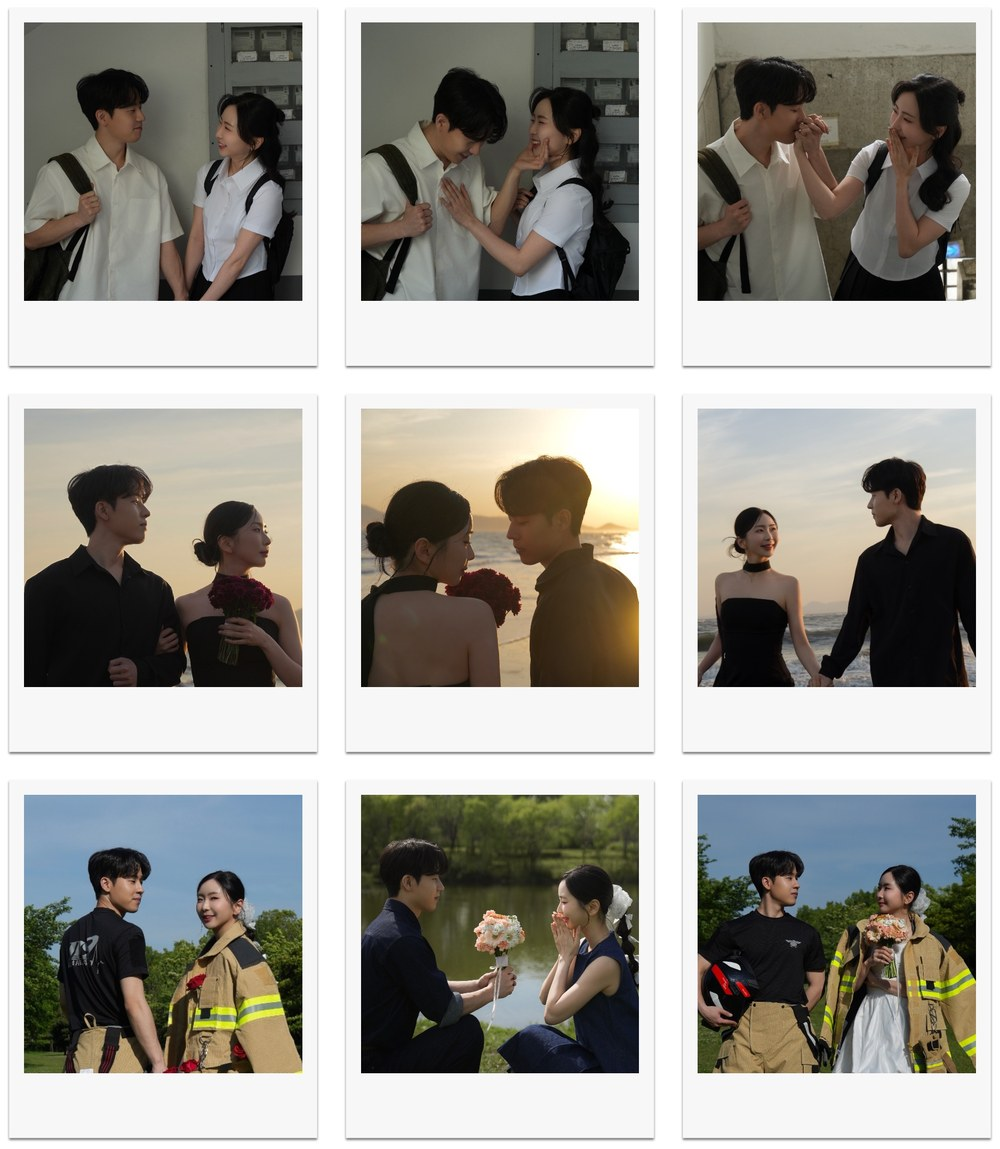
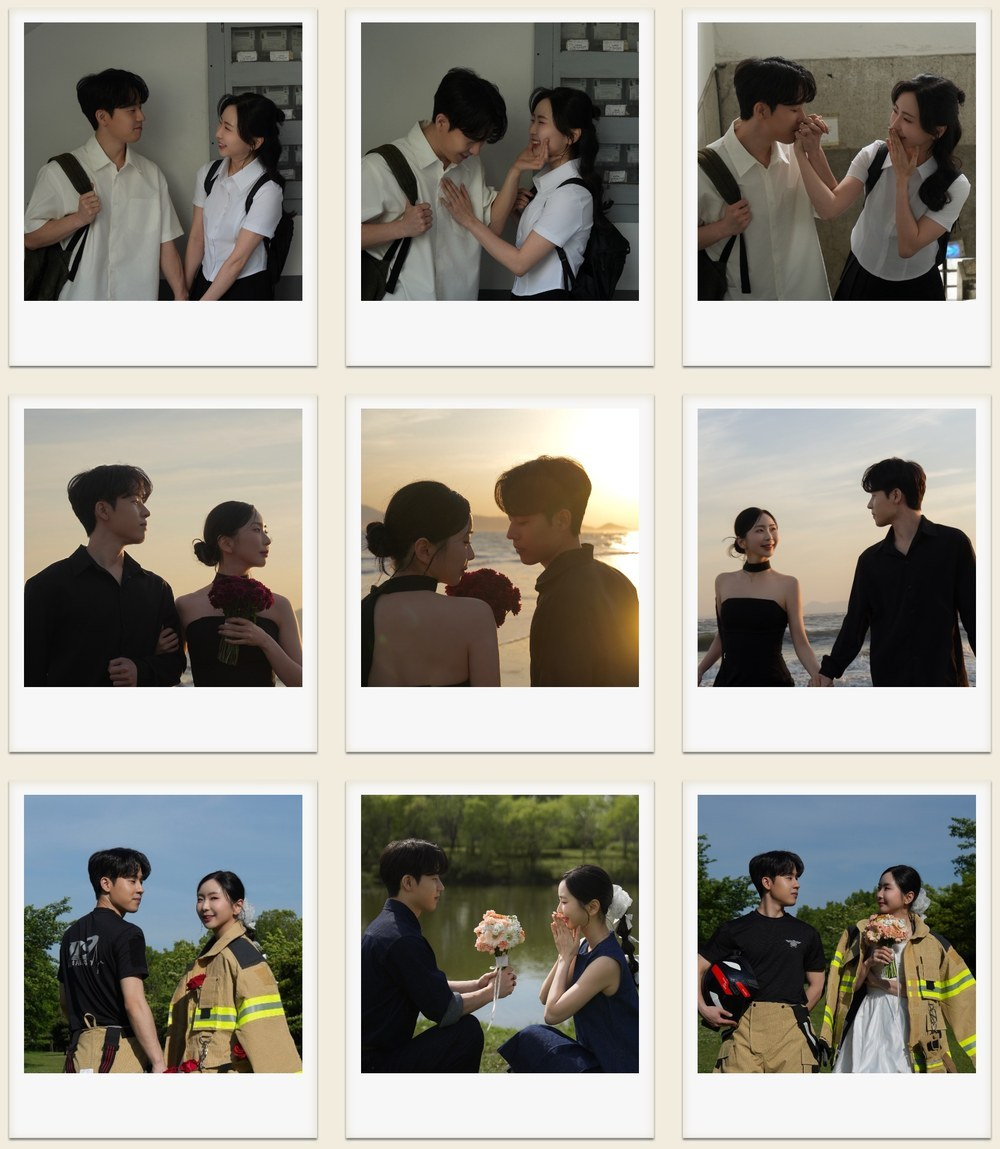
DATE 사진이 스크롤 중에 세피아로 바뀌던 것 고치기
mix-blend-mode 는 합성 그룹 안에서는 동작하지 않습니다. 등장 애니메이션이
opacity/transform 을 건드는 동안에는 그룹이 생겨 블렌드가 꺼져 있다가,
애니메이션이 끝나 그룹이 사라지는 순간 갑자기 걸려서 색이 확 변했습니다.

흰 바탕만 섹션 색으로 구워 넣고 블렌드를 뺐습니다. 테두리에서 이어진
순백 영역만 골라(폴라로이드 흰 테두리는 드롭섀도가 막아 줍니다) 베이지를
곱해서, 사진 색은 원본 그대로 남고 그림자도 살아 있습니다.

Changed region(s): [[0.0, 0.0, 1.0, 1.0]]

diff --git a/styles.css b/styles.css
@@ -370,7 +370,7 @@ fieldset input { width: auto; accent-color: var(--olive); }
 /* DATE — D-day + 날짜 한 줄 + 사진 + 한 주 달력 */
 .date-section { padding:96px 30px 92px; }
 .date-photo { width:min(92%, 320px); margin:0 auto 30px; }
-.date-photo img { display:block; width:100%; height:auto; mix-blend-mode:multiply; }
+.date-photo img { display:block; width:100%; height:auto; }
 /* 달력 머리글. 아래 요일 줄과 같은 자간 계열로 두되 색을 올려 위계를 만듭니다. */
 .cal-month { margin:0 0 13px; color:var(--ink); font:500 10.5px/1 var(--display); letter-spacing:.18em; }
 /* 예식일이 든 한 주(월~일). 위아래 가로선 + 칸 사이 세로선만으로 표를 만듭니다. */
